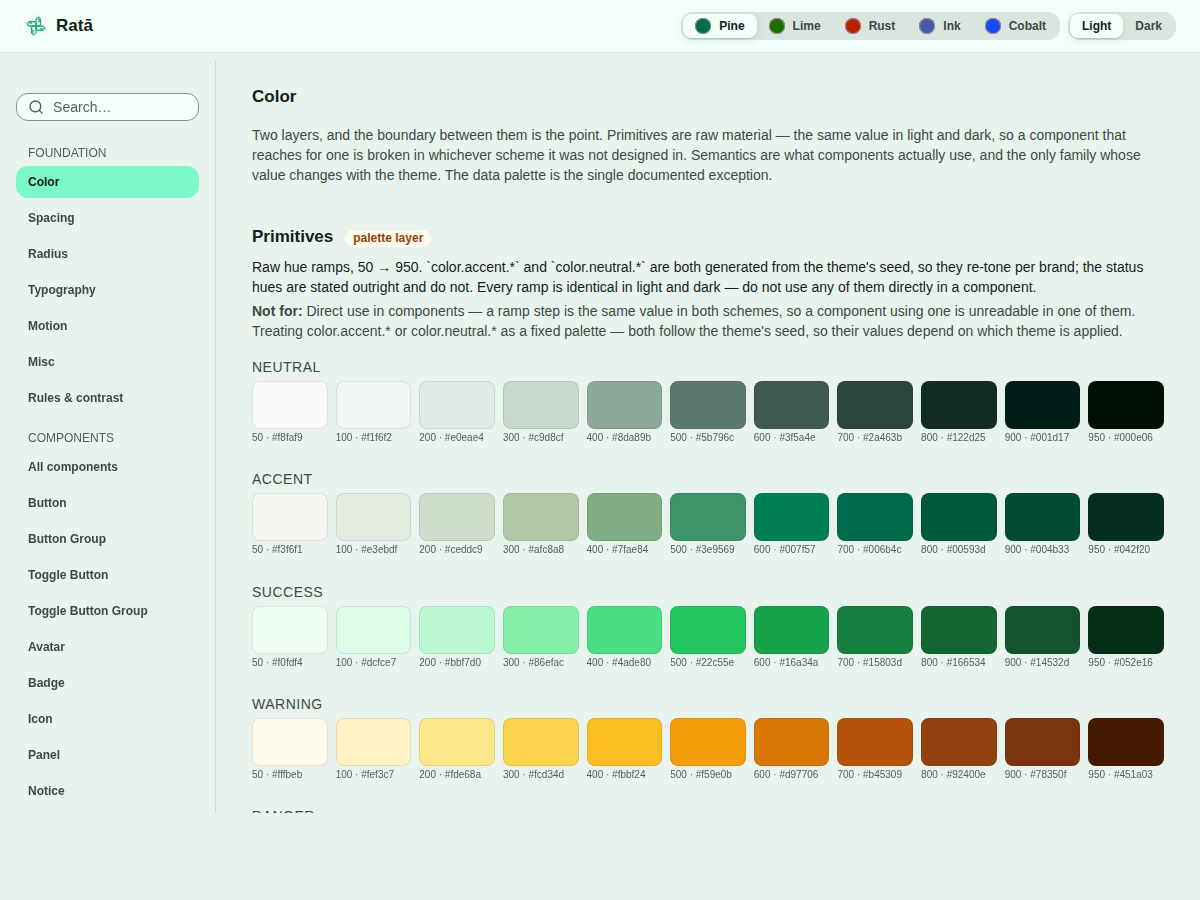
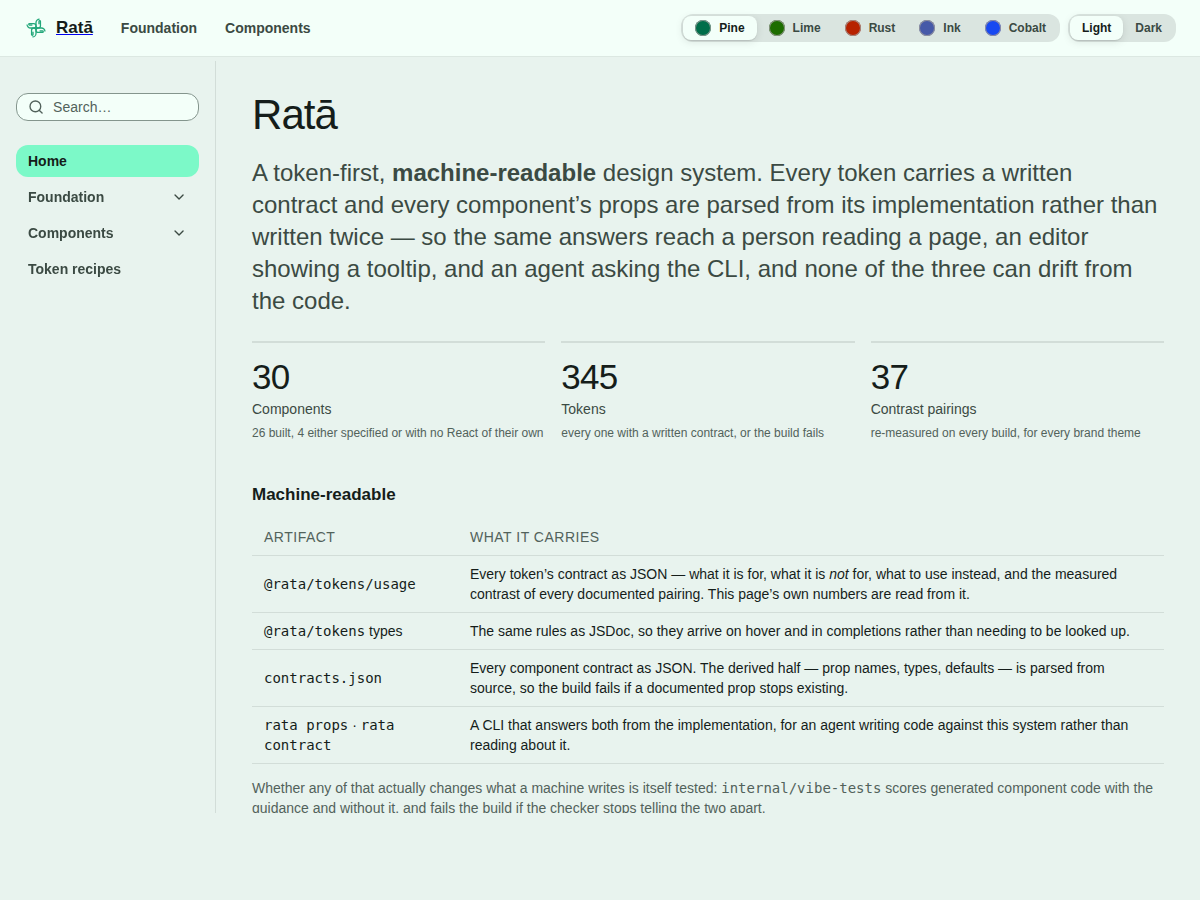
Refresh Ratā screenshots and counts against the updated system
The design system has moved on since the case study was written: the
component index is now a live gallery rather than a status table, there is
a landing page, and the registry has grown.

- Recaptured every screenshot from the rebuilt system: landing page as the
  cover, the live component gallery, the accessibility tab, verified
  contrast, and the gallery in two brands for the theming section
- Corrected the counts to match what the system now reports: 30 components
  in the registry, 26 fully built (was 28). Tokens (345), contrast pairings
  (37), themes (7) and families (8) are unchanged
- Reworked the process section around the two components now sitting as
  approved specs with no code behind them — the gallery marks them "not
  built yet", which demonstrates contracts-before-code better than the old
  status-table framing
- Figma status updated to 29 of 30

Claude-Session: https://claude.ai/code/session_01VoMSNxbDJqdYPgD9BJGXXZ

diff --git a/app/projects/rata/page.tsx b/app/projects/rata/page.tsx
@@ -6,7 +6,7 @@ import Image from "next/image";
 export const metadata: Metadata = {
   title: "Ratā — Case Study",
   description:
-    "Designing and building Ratā — a design system of 28 components and seven brand themes, where accessibility and design decisions are enforced by the build rather than written down and hoped for.",
+    "Designing and building Ratā — a design system of 30 components and seven brand themes, where accessibility and design decisions are enforced by the build rather than written down and hoped for.",
 };
 
 const sectionLabel: React.CSSProperties = {
@@ -70,7 +70,7 @@ const mono: React.CSSProperties = {
 
 /* ── The system at a glance ── */
 const stats = [
-  { value: "28", label: "components, across 8 families" },
+  { value: "30", label: "components in the registry, 26 fully built" },
   { value: "7", label: "brand themes from the same tokens" },
   { value: "37", label: "contrast pairings verified every build" },
   { value: "345", label: "documented design tokens" },
@@ -251,7 +251,7 @@ export default function RataCaseStudy() {
         {/* Intro */}
         <div style={divider}>
           <p style={{ ...body, marginBottom: "1rem" }}>
-            Ratā is a design system for web apps and websites — 28 components across eight families, sitting on a
+            Ratā is a design system for web apps and websites — 30 components across eight families, sitting on a
             token layer that can retheme the entire system from a handful of decisions. I designed and built every
             layer of it: the tokens, the accessibility behaviour, the components, the documentation site, and the
             process for adding to it.
@@ -274,9 +274,10 @@ export default function RataCaseStudy() {
         {/* Cover */}
         <div style={divider}>
           <Figure
-            src="/images/projects/rata/gallery-color.png"
-            alt="The Ratā documentation site showing the colour token layers, with a brand and light/dark switcher"
-            caption="The documentation site — token foundations, every component, and a switcher for brand and colour scheme."
+            src="/images/projects/rata/gallery-home.png"
+            alt="The Ratā documentation site landing page, with the system's own counts for components, tokens and contrast pairings"
+            caption="The documentation site — and the system reporting its own size, measured rather than claimed."
+            height={1500}
           />
         </div>
 
@@ -422,16 +423,16 @@ export default function RataCaseStudy() {
 
           <div className="rata-pair" style={{ display: "grid", gridTemplateColumns: "1fr 1fr", gap: "1.5rem" }}>
             <Figure
-              src="/images/projects/rata/button-light.png"
-              alt="The button component in a green brand, light scheme"
+              src="/images/projects/rata/brand-light.png"
+              alt="The component gallery in a green brand, light scheme"
               caption="One brand, light."
               width={1200}
               height={900}
             />
             <Figure
-              src="/images/projects/rata/button-dark.png"
-              alt="The same button component in a rust brand, dark scheme"
-              caption="Another brand, dark. Same component, same tokens."
+              src="/images/projects/rata/brand-dark.png"
+              alt="The same component gallery in a rust brand, dark scheme"
+              caption="Another brand, dark. Same components, same tokens."
               width={1200}
               height={900}
             />
@@ -481,17 +482,21 @@ export default function RataCaseStudy() {
 
           <p style={{ ...body, marginBottom: "2rem" }}>
             Because the written half of a contract stands on its own, it can exist before the component does — the
-            API gets argued about and approved while changing it is still cheap. And every component publishes where
-            it actually is, including the parts that don&apos;t exist yet.{" "}
-            <span style={b}>The Figma column says future for twenty-seven of twenty-eight components, in public.</span>{" "}
-            A status matrix that only ever reads green is one nobody trusts.
+            API gets argued about and approved while changing it is still cheap. Two components are at exactly that
+            stage right now: their pages are live, their options documented,{" "}
+            <span style={b}>and where the component would render, the gallery says so plainly — not built yet.</span>
+          </p>
+          <p style={{ ...body, marginBottom: "2rem" }}>
+            Everything publishes where it actually is, including what doesn&apos;t exist. The Figma column reads{" "}
+            <span style={mono}>future</span>{" "}for twenty-nine of the thirty, in public.{" "}
+            <span style={b}>A status matrix that only ever reads green is one nobody trusts.</span>
           </p>
 
           <Figure
-            src="/images/projects/rata/status-matrix.png"
-            alt="The component index showing every component's status for CSS, React and Figma"
-            caption="Every component, and the honest state of each of its artefacts."
-            height={1500}
+            src="/images/projects/rata/component-gallery.png"
+            alt="The component index, with every component rendered running, and an unbuilt one showing its spec placeholder"
+            caption="Every component shown running rather than described — including the ones that are still only an approved spec."
+            height={1600}
           />
         </div>
 

diff --git a/lib/data/projects.ts b/lib/data/projects.ts
@@ -48,7 +48,7 @@ export const projects: Project[] = [
     year: "2026",
     rotatingTexts: ["Design System", "Multi-Brand Theming", "Accessibility", "Design Tokens"],
     description:
-      "Designed and built Ratā, a multi-brand design system of 28 components where accessibility and design decisions are enforced by the build instead of written down and hoped for.",
+      "Designed and built Ratā, a multi-brand design system of 30 components where accessibility and design decisions are enforced by the build instead of written down and hoped for.",
     image: "/images/projects/rata/gallery-color.png",
     homeImage: "/images/home/projects/rata.png",
     url: "https://rats-design.vercel.app",
